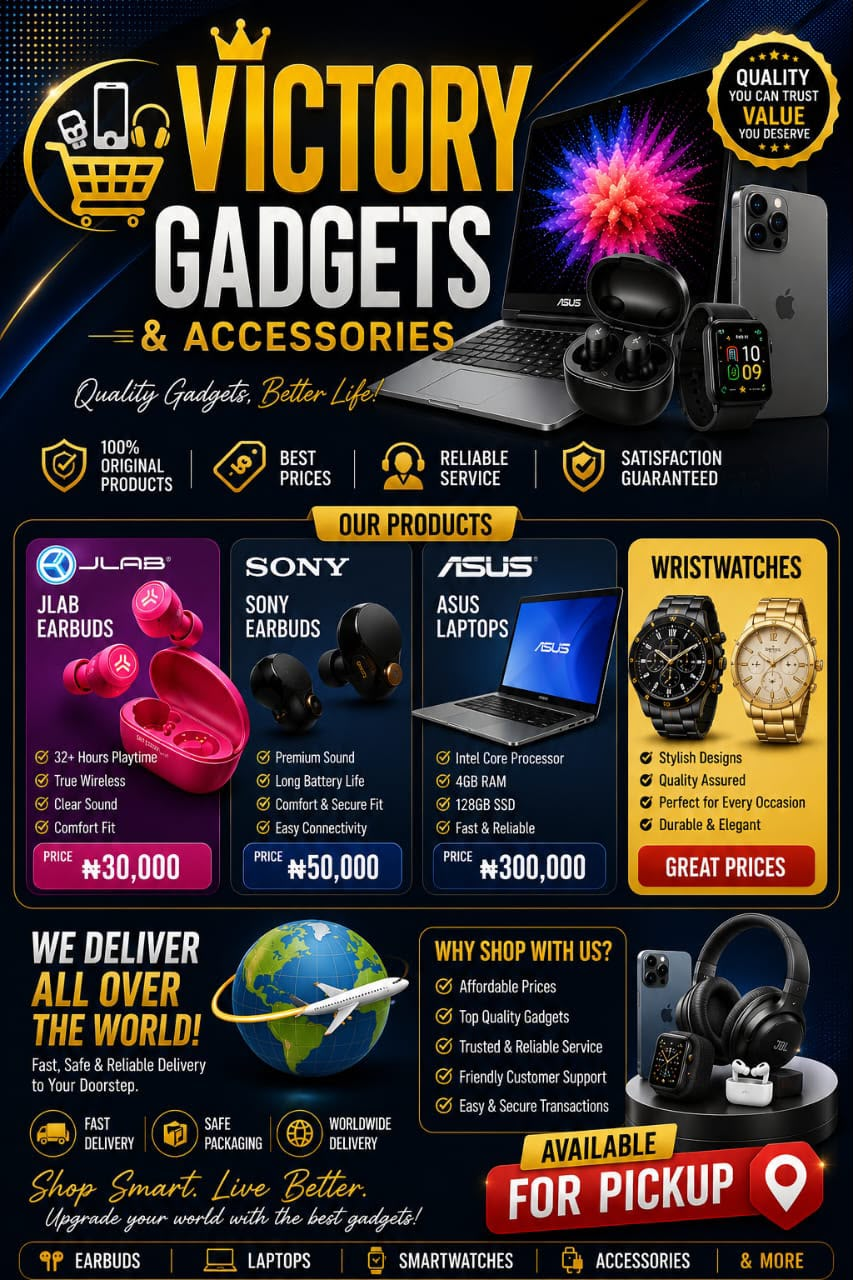
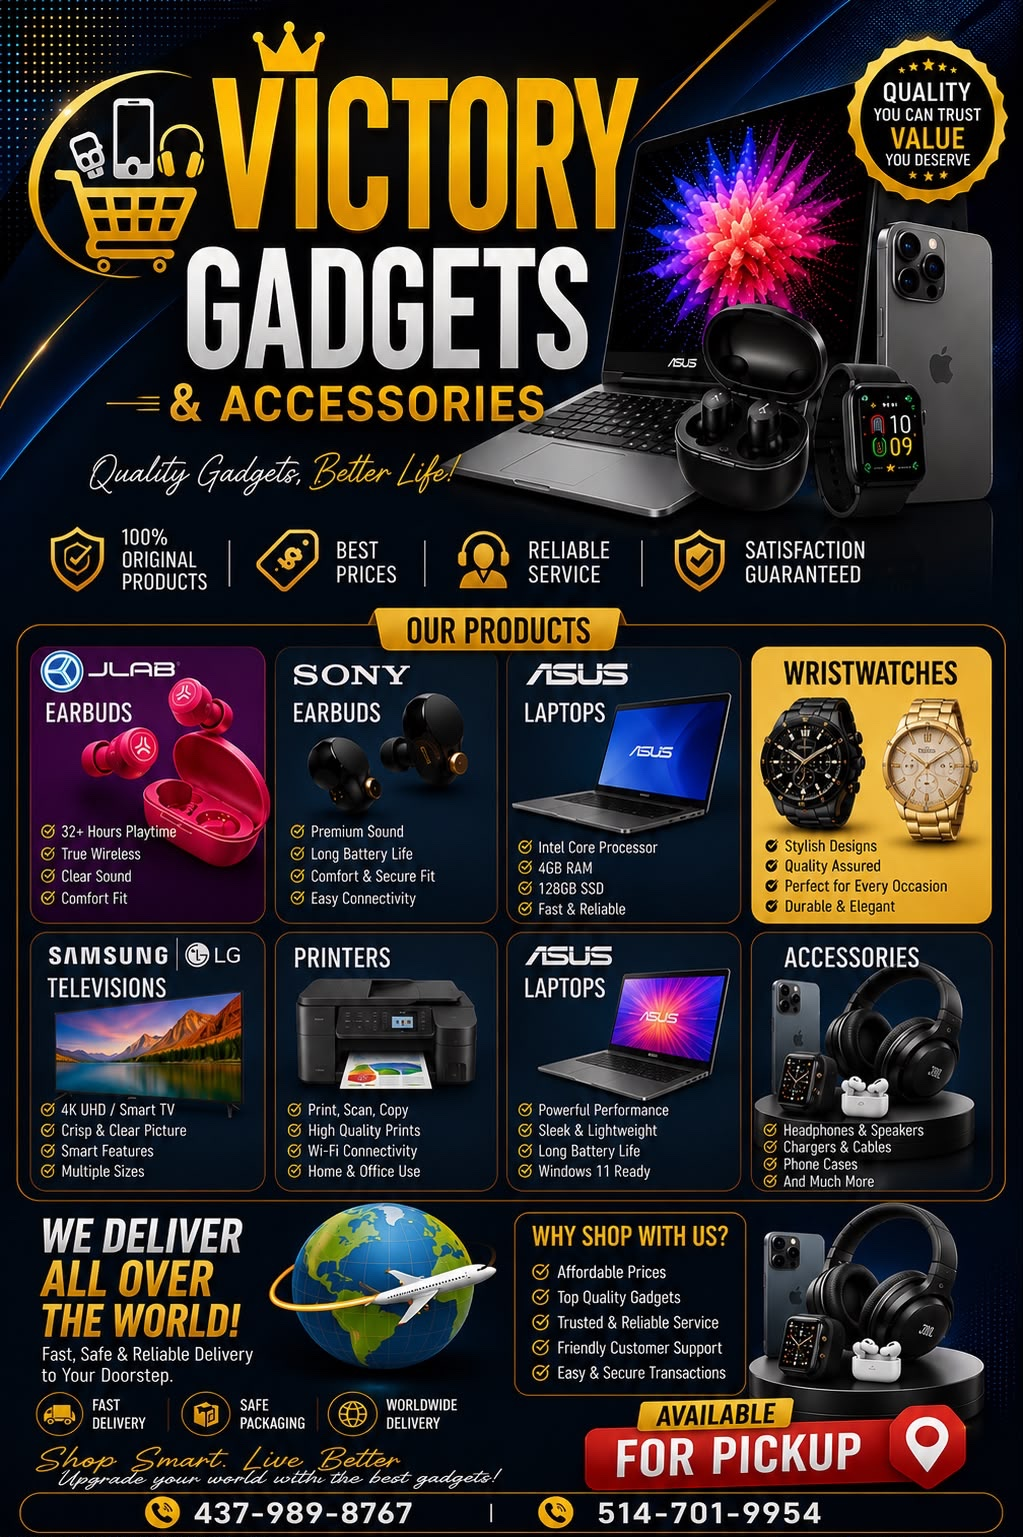
Update storefront flyer

diff --git a/app/page.tsx b/app/page.tsx
@@ -102,7 +102,7 @@ export default function Home() {
           </div>
           <p className="location-note"><span>●</span> Showing {currentMarket.name} inventory. Your choice is remembered on this device.</p>
         </div>
-        <div className="hero-art" aria-label="Victory Gadgets product showcase"><div className="hero-orbit hero-orbit-one" /><div className="hero-orbit hero-orbit-two" /><img src="brand-flyer.jpeg" alt="Laptops, phones, earbuds and smart watches from Victory Gadgets" /><div className="hero-note"><b>{currentMarket.flag} {currentMarket.name}</b><span>{marketProducts.length} local listings · {currentMarket.currency}</span></div></div>
+        <div className="hero-art" aria-label="Victory Gadgets product showcase"><div className="hero-orbit hero-orbit-one" /><div className="hero-orbit hero-orbit-two" /><img src="brand-flyer.jpeg" alt="Victory Gadgets flyer featuring earbuds, laptops, watches, televisions, printers and accessories" /><div className="hero-note"><b>{currentMarket.flag} {currentMarket.name}</b><span>{marketProducts.length} local listings · {currentMarket.currency}</span></div></div>
       </section>
 
       <section className="category-strip" aria-label={`${currentMarket.name} product categories`}>

diff --git a/app/globals.css b/app/globals.css
@@ -39,7 +39,7 @@ nav a:hover { color:var(--gold); }
 .hero-proof b { display:block; margin-bottom:4px; color:white; font-size:14px; }
 .hero-art { position:relative; min-height:510px; display:grid; place-items:center; }
 .hero-art::after { content:""; position:absolute; inset:auto 5% 4% 5%; height:16%; background:#000b; filter:blur(34px); border-radius:50%; }
-.hero-art img { position:relative; z-index:2; width:min(100%,530px); aspect-ratio:3/4; object-fit:cover; object-position:center; border:1px solid #ffffff22; box-shadow:0 35px 90px #0008; clip-path:polygon(5% 0,100% 0,95% 100%,0 100%); }
+.hero-art img { position:relative; z-index:2; width:min(100%,530px); aspect-ratio:1023/1537; object-fit:cover; object-position:center; border:1px solid #ffffff22; box-shadow:0 35px 90px #0008; clip-path:polygon(5% 0,100% 0,95% 100%,0 100%); }
 .hero-orbit { position:absolute; border:1px solid #2082ff88; border-radius:50%; transform:rotate(-24deg); }
 .hero-orbit-one { width:690px; height:250px; }
 .hero-orbit-two { width:550px; height:190px; border-color:#f7b90077; }
